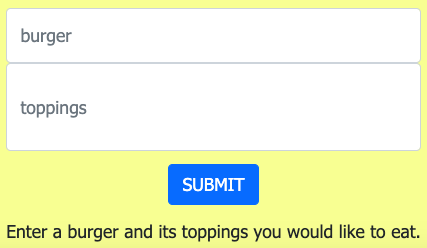
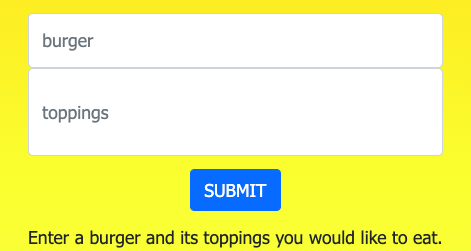
solved update burger submit action. updating README.md file

diff --git a/controllers/routes.js b/controllers/routes.js
@@ -1,94 +1,58 @@
 var db = require("../models");
 
+// redirect route loads all burgers and customers
 module.exports = function(app) {
 
     app.get('/', function(req,res){
-        db.Customer.findAll(
-          { 
-          //   include: [{
-          // model:db.Burger}]
-        }
-          ).then(function(customer_data) {
-            console.log(customer_data);
-            db.Burger.findAll({}).then(function(burger_data) {
-                console.log(burger_data);
-            res.render('index',{
-                customer_data, burger_data});
-            });
+      db.Customer.findAll({}).then(function(customer_data) {
+        console.log(customer_data);
+        db.Burger.findAll({}).then(function(burger_data) {
+          console.log(burger_data);
+          res.render('index',{
+            customer_data, burger_data});
         });
+      });
     });
 
-// UPDATE CURRENT VERSION
-
-// 1 post a new burger (button submit)
-
+  // add a burger
   app.post("/burgers/create", function(req, res) {
     console.log(req.body)
-    db.Burger.create(req.body).then(function(dbBurger) {
-      // res.json(dbBurger);
+    db.Burger.create(req.body).then(function() {
       res.redirect('/');
     });
   });
 
-// 2 add a new customer (button submit)
-
+  // add a customer
   app.post("/customers/create", function(req, res) {
     console.log(req.body)
-    db.Customer.create(req.body).then(function(dbCustomer) {
-      // res.json(dbCustomer);
+    db.Customer.create(req.body).then(function() {
       res.redirect('/');
     });
   });
 
-// 3 update burger devoured value when button clicked
-// gather the selected customer id
-// append the burger name to the customer div
+  // update a burger with CustomerId
+  app.post("/burgers/update", function(req, res) {
+  console.log(req.body);
+  
+  const condition = {
+    where : {
+    id : req.body.id
+    }
+  };
 
-  app.post('/burgers/update/:id',function(req,res){
-    console.log(req.body);
-    db.Burger.update(
-      { 
-      CustomerId: req.body.CustomerId, 
-      devoured: 1 },
-      { 
-        where: {
-        id : parseInt(req.params.id) }
+  db.Burger.update({
+    CustomerId : req.body.CustomerId,
+    devoured : 1
+  }, condition)
+  .then(function(result) {
+    if (result.changedRows == 0) {
+      return res.status(404).end();
+    } else {
+      res.redirect('/');
       }
-      // ).then(
-      //   data => { console.log(data);
-    ).then(function(data) {
-      console.log(data);
-          res.redirect('/');
-      })
-      .catch(e => console.log(e));
-  })
-} 
+    });
+  });
+}
 
-// end module exports code section
-
-// FUTURE VERSION
-// 4 setup a burger menu with checkboxes, qty, and cost
-
-// 5 store all purchases each customer makes
-// render purchases in a customer summary page (findAll, findOne)
-
-// 6 add customer sign-in / register to buy burgers
-// 7 add admin sign-in / register to makes burgers
-
-
-// ORM ROUTES CODE
-
-// app.get('/burgers/update',function(req,res){
-//     db.update(req.body.id, function(result){
-//         console.log(result);
-//         res.redirect('/');
-//     });
-// });
-
-// app.post('/burgers/create', function(req,res){
-//     db.create(req.body.name,req.body.toppings, function(result){
-//         res.redirect('/');
-//     });
-// });
 
 

diff --git a/server.js b/server.js
@@ -2,9 +2,6 @@ require("dotenv").config();
 var bodyParser = require('body-parser');
 var methodOverride = require('method-override');
 var path = require('path');
-
-// INSERT ------
-
 var express = require('express');
 var exphbs = require('express-handlebars');
 var app = express();
@@ -26,13 +23,6 @@ var hbs = exphbs.create({
 app.engine('handlebars', hbs.engine);
 app.set('view engine', 'handlebars');
 app.set('views', path.join(__dirname, 'views'));
-
-// END INSERT ------
-
-// HANDLEBARS VIEW ENGINE
-// app.engine('handlebars', exphbs({
-//   defaultLayout: 'main'
-// }));
 
 // SET PUBLIC AS ROOT FOLDER FOR EXPRESS
 app.use(express.static(__dirname + '/public'));
@@ -72,43 +62,3 @@ require('./controllers/routes.js')(app);
 
 module.exports = app;
 
-// COMPARE HELPER
-// exphbs.registerHelper(‘compare’, function (lvalue, operator, rvalue, options) {
-
-//   var operators, result;
-    
-//   if (arguments.length < 3) {
-//       throw new Error("Handlerbars Helper 'compare' needs 2 parameters");
-//   }
-  
-//   if (options === undefined) {
-//       options = rvalue;
-//       rvalue = operator;
-//       operator = "===";
-//   }
-  
-//   operators = {
-//       '==': function (l, r) { return l == r; },
-//       '===': function (l, r) { return l === r; },
-//       '!=': function (l, r) { return l != r; },
-//       '!==': function (l, r) { return l !== r; },
-//       '<': function (l, r) { return l < r; },
-//       '>': function (l, r) { return l > r; },
-//       '<=': function (l, r) { return l <= r; },
-//       '>=': function (l, r) { return l >= r; },
-//       'typeof': function (l, r) { return typeof l == r; }
-//   };
-  
-//   if (!operators[operator]) {
-//       throw new Error("Handlerbars Helper 'compare' doesn't know the operator " + operator);
-//   }
-  
-//   result = operators[operator](lvalue, rvalue);
-  
-//   if (result) {
-//       return options.fn(this);
-//   } else {
-//       return options.inverse(this);
-//   }
-
-// });

diff --git a/docs/compare.js b/docs/compare.js
@@ -1,0 +1,43 @@
+// COMPARE HELPER
+var hbs = exphbs.create({
+    helpers: {
+        compare : function (lvalue, operator, rvalue, options) {
+
+            var operators, result;
+                
+            if (arguments.length < 3) {
+                throw new Error("Handlerbars Helper 'compare' needs 2 parameters");
+            }
+            
+            if (options === undefined) {
+                options = rvalue;
+                rvalue = operator;
+                operator = "===";
+            }
+            
+            operators = {
+                '==': function (l, r) { return l == r; },
+                '===': function (l, r) { return l === r; },
+                '!=': function (l, r) { return l != r; },
+                '!==': function (l, r) { return l !== r; },
+                '<': function (l, r) { return l < r; },
+                '>': function (l, r) { return l > r; },
+                '<=': function (l, r) { return l <= r; },
+                '>=': function (l, r) { return l >= r; },
+                'typeof': function (l, r) { return typeof l == r; }
+            };
+            
+            if (!operators[operator]) {
+                throw new Error("Handlerbars Helper 'compare' doesn't know the operator " + operator);
+            }
+            
+            result = operators[operator](lvalue, rvalue);
+            
+            if (result) {
+                return options.fn(this);
+            } else {
+                return options.inverse(this);
+            }
+        }
+    }    
+});

diff --git a/public/css/style.css b/public/css/style.css
@@ -1,10 +1,10 @@
 body {
-    background-color: #fcf997;
+    background-image: linear-gradient(rgb(252, 131, 2), rgb(255, 255, 73));
     font-family: 'Segoe UI', Tahoma, Geneva, Verdana, sans-serif;
    }
 
 .to-eat {
-    background-color: rgb(249, 171, 102);
+    background-color: rgb(102, 249, 107);
     font-weight: 900;
     padding: 12px;
     clear: left;
@@ -12,7 +12,7 @@ body {
 }
 
 .customer {
-    background-color: rgb(250, 197, 151);
+    background-color: rgb(151, 195, 250);
     font-weight: 900;
     padding: 12px;
     clear: left;
@@ -30,7 +30,7 @@ body {
 }
 
 .eat-it {
-    background-color: rgb(139, 252, 143);
+    background-color: rgb(179, 249, 182);
     margin-top: 12px;
 }
 

diff --git a/public/javascript/javascript.js b/public/javascript/javascript.js
@@ -1,5 +1,6 @@
 $(function() {
 
+// add new burger (done in handlebars route.js) -----
 $(".create-form").on("submit", function(event) {
     event.preventDefault();
 
@@ -17,9 +18,9 @@ $(".create-form").on("submit", function(event) {
     }).then(
       function() {
         console.log("created new burger");
-        // Reload the page to get the updated list
         location.reload();
       }
     );
   });
 });
+

diff --git a/models/customer.js b/models/customer.js
@@ -5,10 +5,5 @@ module.exports = function(sequelize, DataTypes) {
         }
     });
 
-    // Customer.associate = function(models) {
-    //     Customer.hasMany(models.Burger, {
-    //         onDelete: "cascade"
-    //     });
-    // }
     return Customer;
 }

diff --git a/README.md b/README.md
@@ -22,4 +22,6 @@ This app is still under construction, pending some assistance in solving how to 
 4. The response function should remove the burger's Devour button in the middle column.
 5. The response function should insert the burger's name inside the Customer div on the right column.
 
+![Add a burger](https://github.com/AlanLeverenz/Burgers-Sequel/blob/master/images/add_burger.png)
+
 __To be completed...__
